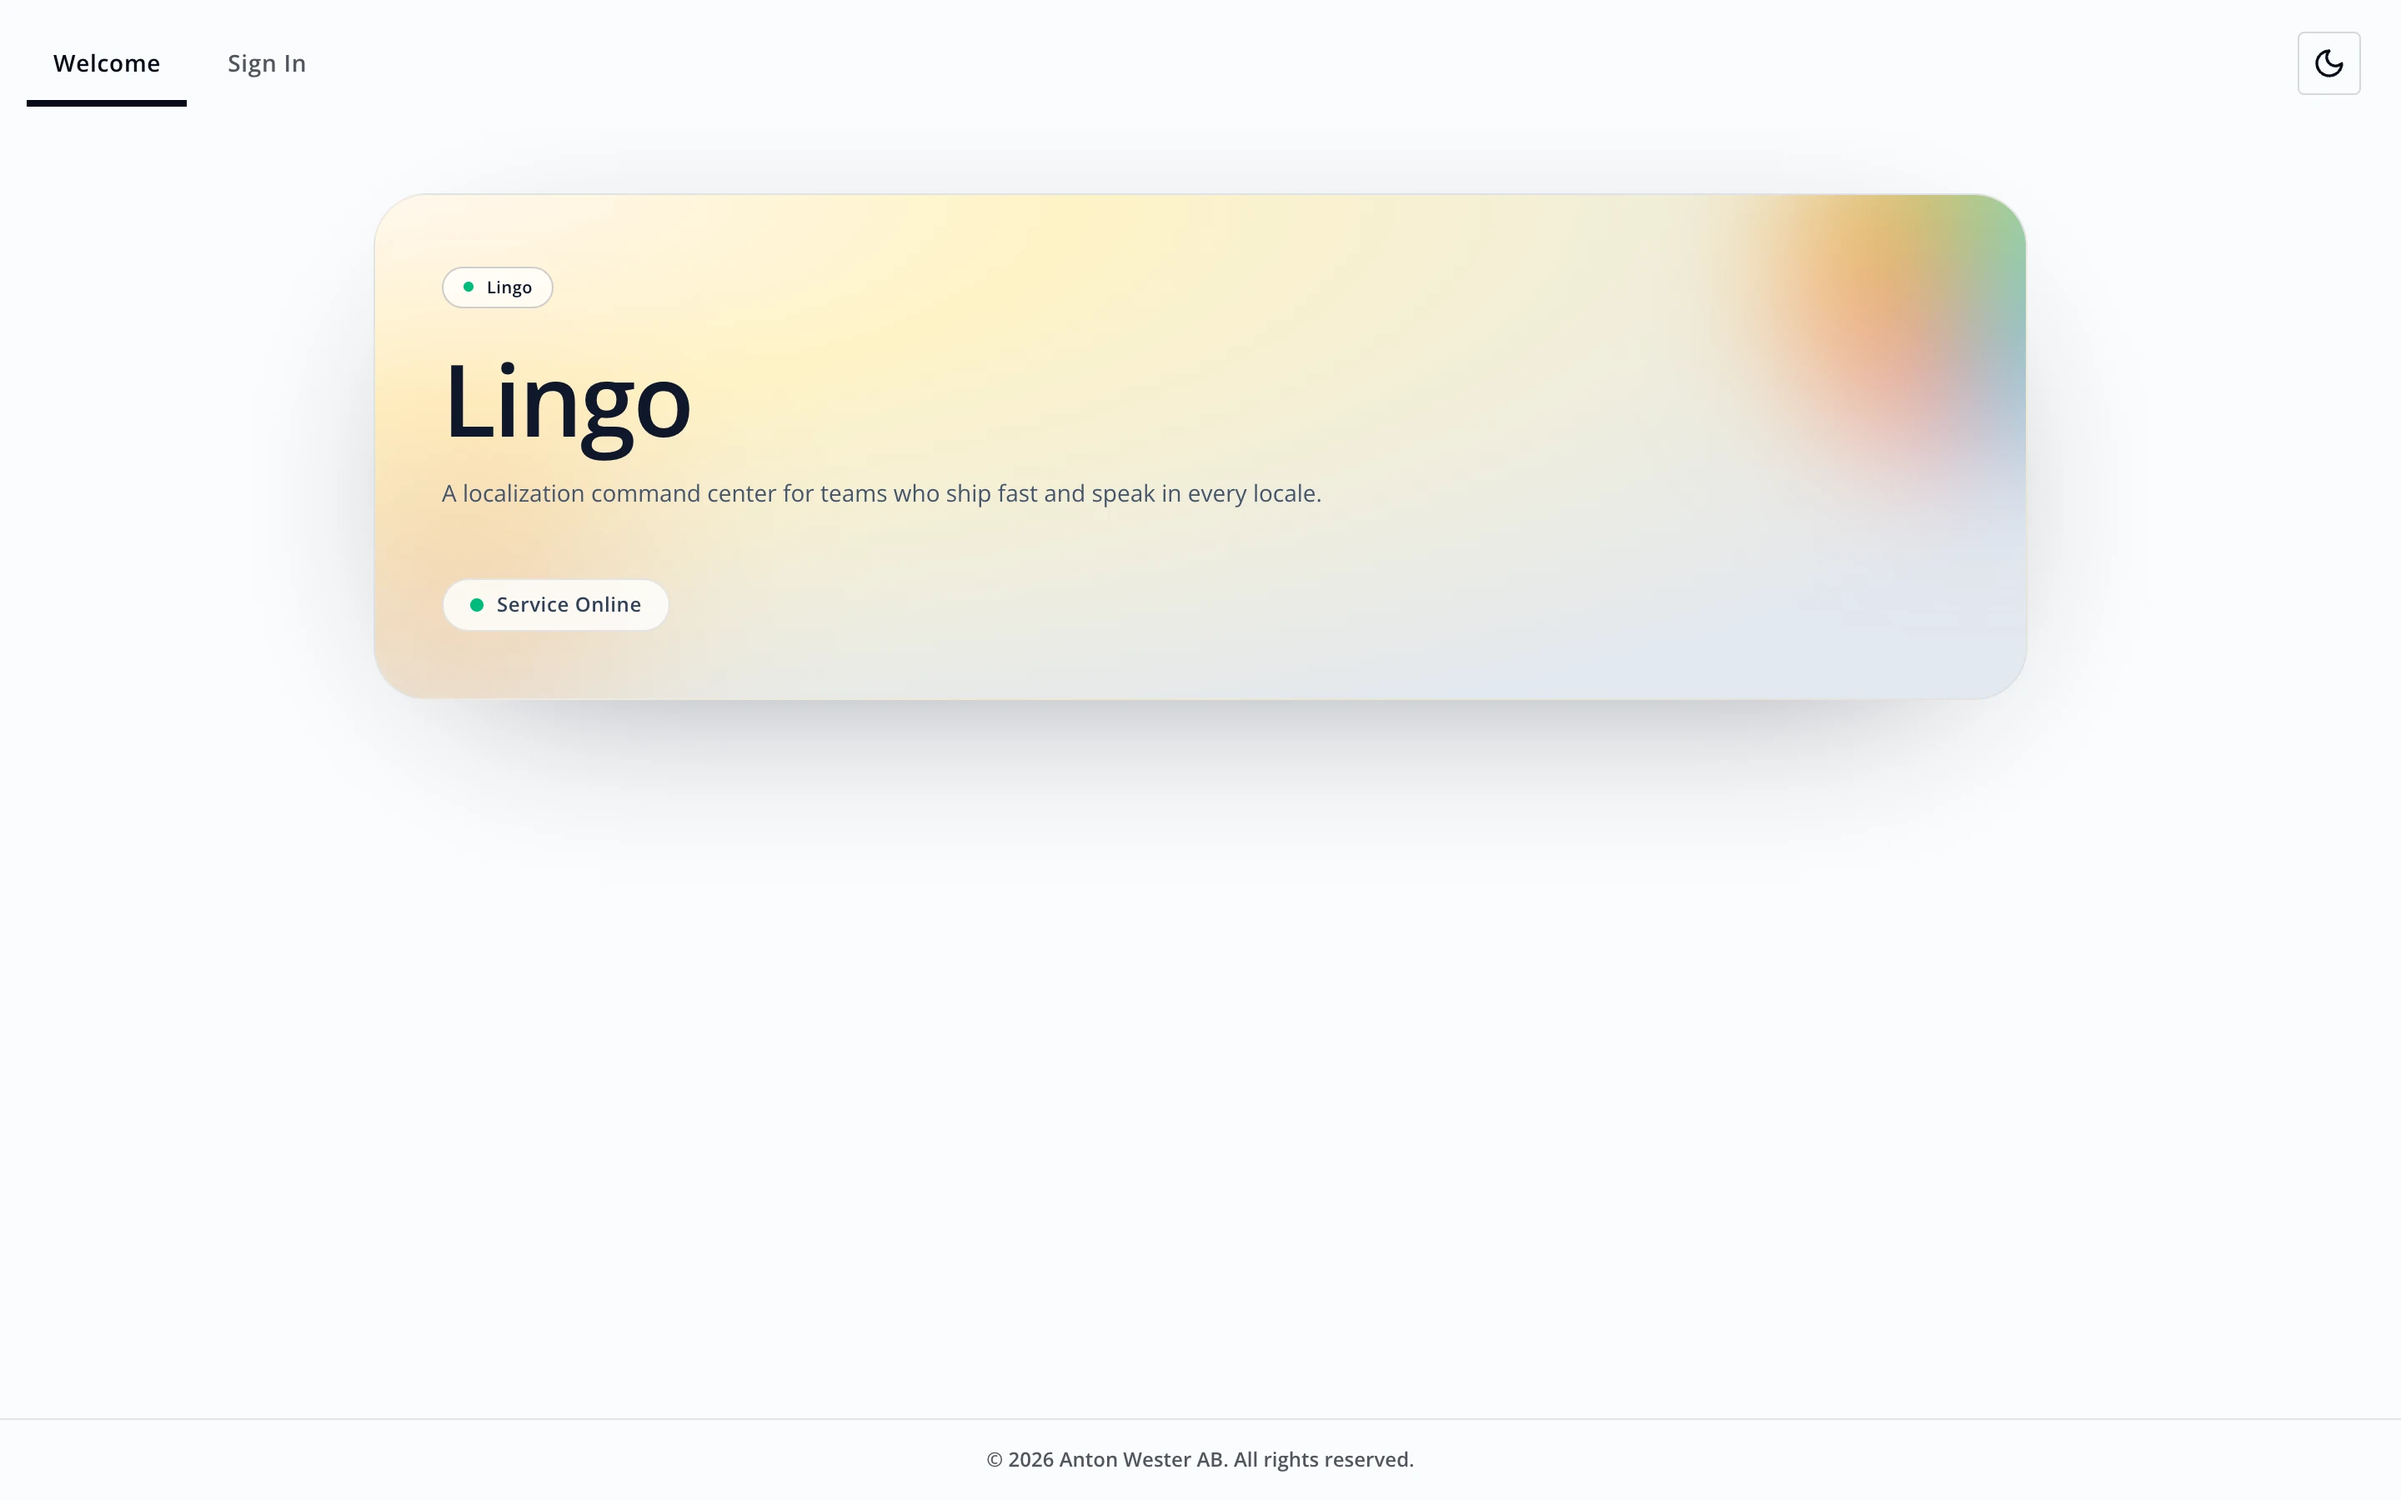
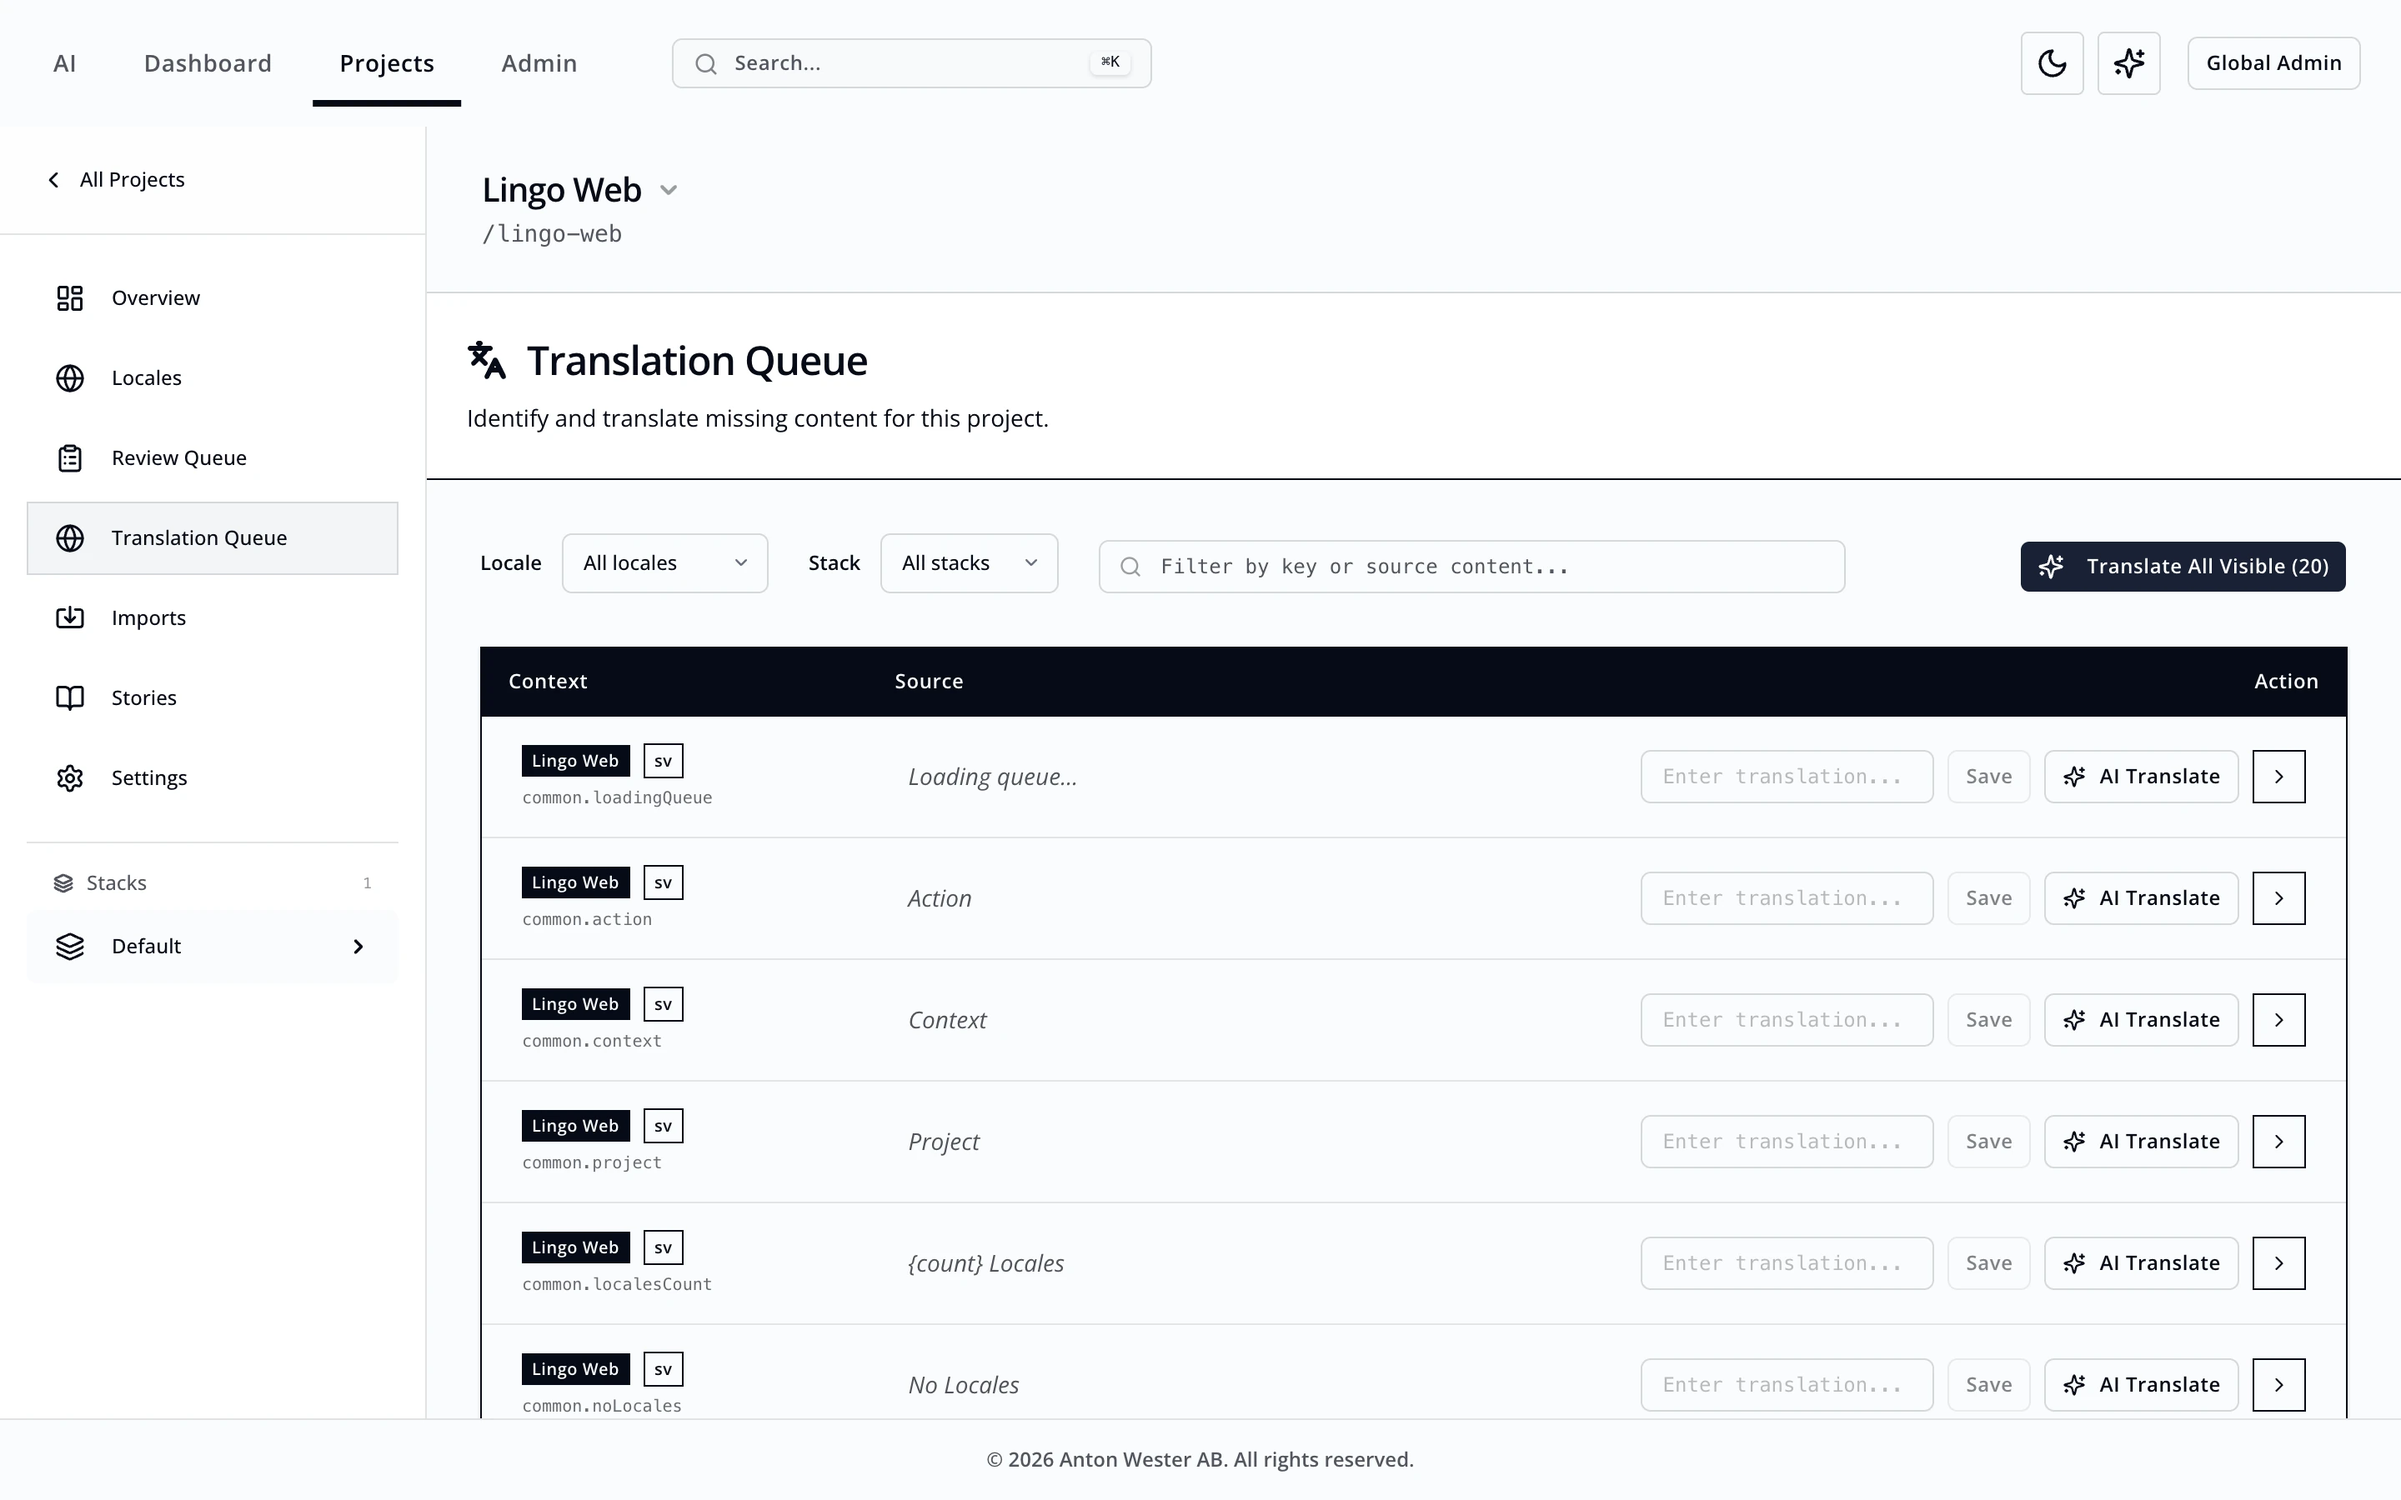
fix: copy fixes, animated accordions, Göteborg in the footer, a signed-in Lingo shot
- "skyddsräcken" becomes "guardrails"
- a space between the hero heading and the offer, which the HTML compressor dropped
- the React star helper line is gone
- every <details> animates its height when it opens and closes
- the footer city list starts with Göteborg, linking home
- the Lingo shot is the signed-in translation queue from a local Lingo with demo data
- the Wez shot shows the board with the crew in the sidebar

diff --git a/src/content/home.ts b/src/content/home.ts
@@ -13,7 +13,7 @@ export const home: L10n<HomeContent> = {
         lead: 'Jag sitter med dem som gör jobbet', body: 'och kartlägger vart timmarna tar vägen. Ni får en prioriterad lista över var AI lönar sig, vad det kostar att bygga och vad som ska förbli mänskligt. Kartan är er, oavsett om vi bygger vidare tillsammans.' },
       { word: 'Bygg.', wdth: 96, service: 'development', linkLabel: 'Om AI-utveckling',
         more: [{ service: 'agents', label: 'AI-agenter' }, { service: 'automation', label: 'AI-automation' }],
-        lead: 'Jag bygger det själv, i er stack:', body: 'agenter, integrationer och gränssnitten teamet ska använda, med tester, övervakning och de skyddsräcken som reglerade branscher kräver.' },
+        lead: 'Jag bygger det själv, i er stack:', body: 'agenter, integrationer och gränssnitten teamet ska använda, med tester, övervakning och de guardrails som reglerade branscher kräver.' },
       { word: 'Förvalta.', wdth: 125, service: 'operations', linkLabel: 'Om drift och förvaltning',
         lead: 'Jag driftar och förvaltar det åt er:', body: 'hosting, övervakning, säkerhet, uppdateringar och löpande förbättringar. Vill ni hellre driva det själva får teamet koden, dokumentationen och utbildningen. Ni väljer, och det finns ingen inlåsning.' },
     ],
@@ -22,7 +22,7 @@ export const home: L10n<HomeContent> = {
     aboutHeading: 'Om mig',
     bio: [
       'Jag har programmerat i över tio år och byggt digitala produkter för webb, iOS och Android i yrket sedan 2019. Jag är högskoleingenjör i datateknik från Chalmers, har varit tech lead för cross-platform på weapp och utvecklare på Telia.',
-      'I dag bygger jag AI-lösningar åt företag och driver mina egna plattformar, SökHem och OpenAudit, hela vägen från arkitektur till drift. I världens största chattcommunity för React är jag utsedd till star helper.',
+      'I dag bygger jag AI-lösningar åt företag och driver mina egna plattformar, SökHem och OpenAudit, hela vägen från arkitektur till drift.',
     ],
     experience: [
       { years: '2024–', role: 'AI-konsult och utvecklare', org: 'Anton Wester AB' },
@@ -75,7 +75,7 @@ export const home: L10n<HomeContent> = {
     aboutHeading: 'About',
     bio: [
       'I have been programming for more than ten years and building digital products for web, iOS and Android professionally since 2019. I studied computer engineering at Chalmers, led cross-platform development as tech lead at weapp and worked as a developer at Telia.',
-      'Today I build AI solutions for companies and run my own platforms, SökHem and OpenAudit, from architecture to operations. In the world’s largest React chat community I am recognised as a star helper.',
+      'Today I build AI solutions for companies and run my own platforms, SökHem and OpenAudit, from architecture to operations.',
     ],
     experience: [
       { years: '2024–', role: 'AI consultant and developer', org: 'Anton Wester AB' },

diff --git a/scripts/shots.ts b/scripts/shots.ts
@@ -1,21 +1,58 @@
-import { chromium } from 'playwright-core';
+import { chromium, type Page } from 'playwright-core';
 import sharp from 'sharp';
 
-const targets = [
-  { id: 'lingo', url: 'https://lingo.antonwester.se', wait: 2500 },
-  { id: 'wez', url: process.env.WEZ_URL ?? 'http://localhost:5273', wait: 4000 },
+const targets: { id: string; url: string; wait: number; storage?: Record<string, string>; prepare?: (page: Page) => Promise<void> }[] = [
+  {
+    id: 'lingo',
+    // a local Lingo with its seeded demo data; the signed-in app shows more than the public login page
+    url: `${process.env.LINGO_URL ?? 'http://localhost:3101'}/login`,
+    wait: 1500,
+    prepare: async (page) => {
+      await page.getByLabel(/e-?mail/i).fill('admin@lingo.dev');
+      await page.getByLabel(/password/i).fill('password');
+      await page.getByRole('button', { name: /sign in/i }).click();
+      await page.waitForURL(/dashboard/);
+      await page.getByRole('dialog').getByRole('button', { name: /close/i }).click();
+      await page.getByRole('link', { name: 'Projects' }).first().click();
+      await page.getByText('Lingo Web', { exact: true }).first().click();
+      await page.getByText('Translation Queue', { exact: true }).first().click();
+      await page.waitForLoadState('networkidle');
+      await page.waitForTimeout(1500);
+    },
+  },
+  {
+    id: 'wez',
+    url: process.env.WEZ_URL ?? 'http://localhost:5273',
+    wait: 4000,
+    // the crew is the point of the case; fold the projects so it shows in the sidebar
+    storage: { 'wez:sidebarSections': JSON.stringify({ projects: false, crew: true }) },
+    prepare: async (page) => {
+      await page.locator('button.view-tab[aria-label="Board"]').click();
+      await page.waitForTimeout(1500);
+    },
+  },
 ];
 
+// `npm run shots -- wez` retakes only the named ones
+const only = process.argv.slice(2);
 const browser = await chromium.launch({ channel: 'chrome' });
-const page = await browser.newPage({ viewport: { width: 1440, height: 900 }, deviceScaleFactor: 2 });
-for (const t of targets) {
+for (const t of targets.filter((t) => only.length === 0 || only.includes(t.id))) {
+  const page = await browser.newPage({ viewport: { width: 1440, height: 900 }, deviceScaleFactor: 2 });
+  if (t.storage) {
+    await page.addInitScript((entries) => {
+      for (const [key, value] of Object.entries(entries)) localStorage.setItem(key, value);
+    }, t.storage);
+  }
   try {
     await page.goto(t.url, { waitUntil: 'networkidle', timeout: 30000 });
     await page.waitForTimeout(t.wait);
+    await t.prepare?.(page);
     await sharp(await page.screenshot()).webp({ quality: 90, effort: 6 }).toFile(`src/assets/shots/${t.id}.webp`);
     console.log(`captured ${t.id}`);
   } catch (error) {
     console.error(`could not capture ${t.id} from ${t.url}:`, error);
+  } finally {
+    await page.close();
   }
 }
 await browser.close();

diff --git a/src/scripts/disclosure.ts b/src/scripts/disclosure.ts
@@ -1,0 +1,49 @@
+// every <details> opens and closes by animating its height; without JS, or with reduced motion, it toggles the way the browser does
+const reduce = matchMedia('(prefers-reduced-motion: reduce)');
+const tokens = getComputedStyle(document.documentElement);
+const easeOut = tokens.getPropertyValue('--ease-out').trim() || 'ease-out';
+const easeInOut = tokens.getPropertyValue('--ease-in-out').trim() || 'ease-in-out';
+
+function bind(details: HTMLDetailsElement): void {
+  const summary = details.querySelector<HTMLElement>(':scope > summary');
+  if (!summary) return;
+  const body = [...details.children].filter((el): el is HTMLElement => el !== summary && el instanceof HTMLElement);
+  let running: Animation[] = [];
+  let closing = false;
+
+  const closedHeight = () => {
+    const s = getComputedStyle(details);
+    const frame = parseFloat(s.paddingTop) + parseFloat(s.paddingBottom) + parseFloat(s.borderTopWidth) + parseFloat(s.borderBottomWidth);
+    return summary.getBoundingClientRect().height + frame;
+  };
+
+  summary.addEventListener('click', (e) => {
+    if (reduce.matches) return;
+    e.preventDefault();
+    // a click mid-animation turns it around from wherever it is
+    const opening = closing || !details.open;
+    const from = details.getBoundingClientRect().height;
+    // a closed body is not rendered, so it fades in from nothing rather than from its computed opacity
+    const fades = body.map((el) => (details.open ? Number(getComputedStyle(el).opacity) : 0));
+    running.forEach((a) => a.cancel());
+
+    closing = !opening;
+    details.toggleAttribute('data-closing', closing);
+    details.open = true;
+    const to = opening ? details.getBoundingClientRect().height : closedHeight();
+    const timing = { duration: opening ? 520 : 400, easing: opening ? easeOut : easeInOut };
+
+    details.style.overflow = 'hidden';
+    const height = details.animate({ height: [`${from}px`, `${to}px`] }, timing);
+    running = [height, ...body.map((el, i) => el.animate({ opacity: [fades[i], opening ? 1 : 0] }, timing))];
+    height.onfinish = () => {
+      if (closing) details.open = false;
+      closing = false;
+      running = [];
+      details.removeAttribute('data-closing');
+      details.style.overflow = '';
+    };
+  });
+}
+
+document.querySelectorAll('details').forEach(bind);

diff --git a/src/content/cases.ts b/src/content/cases.ts
@@ -29,7 +29,7 @@ export const cases: Record<CaseId, L10n<CaseContent>> = {
       ],
       stack: ['React 19', 'TanStack Start', 'Hono', 'oRPC', 'Better Auth', 'BullMQ', 'Postgres/PostGIS', 'Redis', 'Stripe', 'Cloudflare', 'Docker', 'Traefik', 'Prometheus', 'Grafana'],
       proves: [
-        'En person kan grunda, bygga och driva en nationell marknadsplats från början till slut, när AI-agenter står för volymen och skyddsräckena är designade från start.',
+        'En person kan grunda, bygga och driva en nationell marknadsplats från början till slut, när AI-agenter står för volymen och guardrails är designade från start.',
       ],
       service: 'development',
       schemaType: 'WebApplication',
